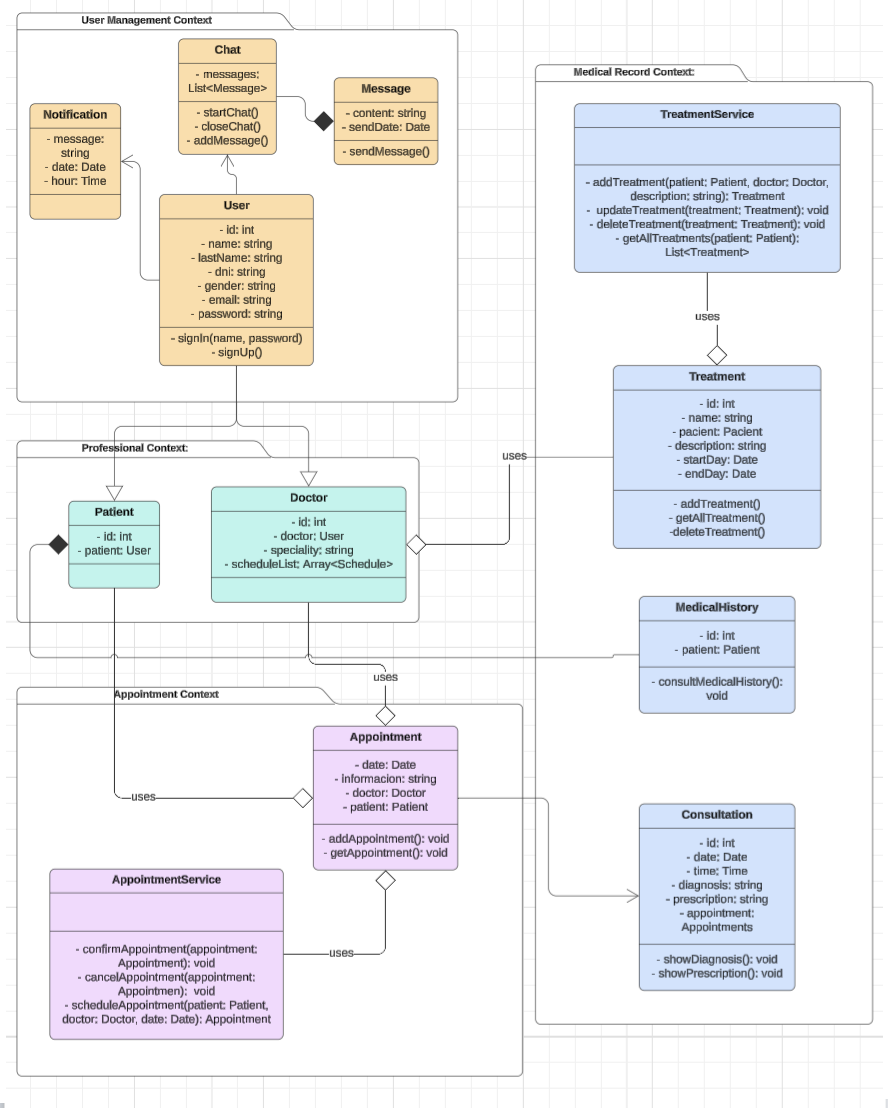
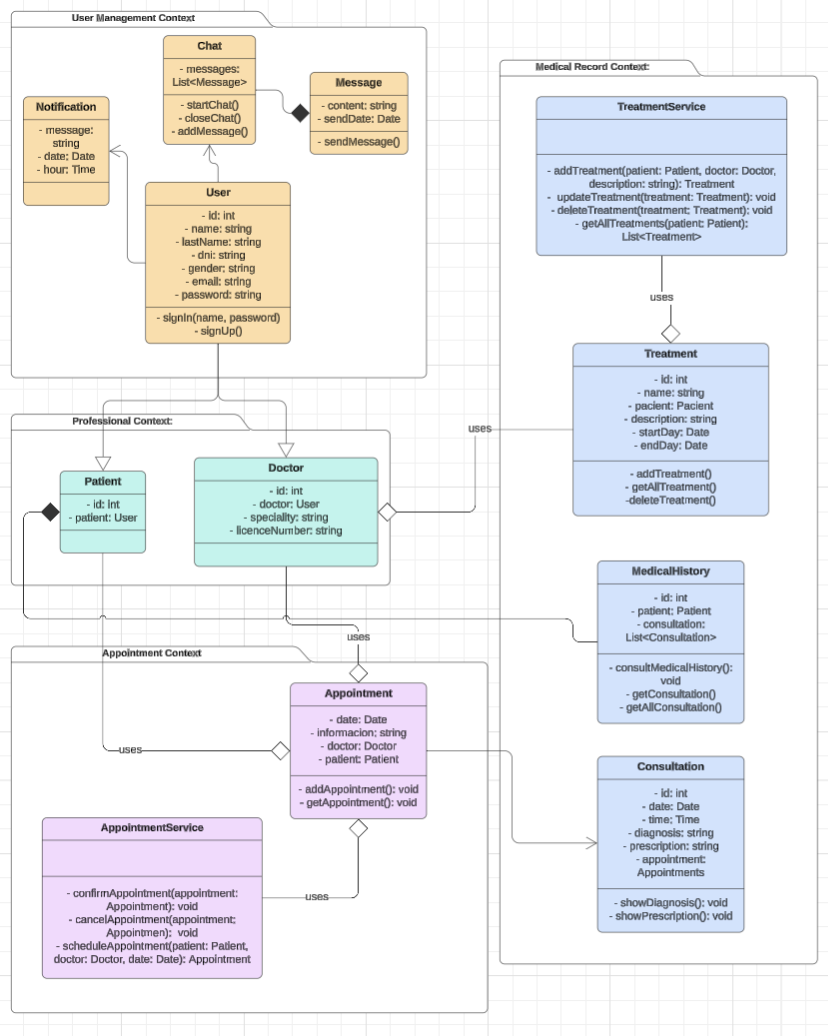
fix: update class dictionary

diff --git a/Informe.md b/Informe.md
@@ -1833,7 +1833,7 @@ Para desarrollar el diagrama de clases para nuestro proyecto, se usó la herrami
 
 ### 4.7.2. Class Dictionary
 
-Class User
+**Class User**
 
 <table border="1">
   <tr>
@@ -1857,59 +1857,28 @@ Class User
     <td>Last name of the client</td>
   </tr>
   <tr>
+    <td>dni</td>
+    <td>string</td>
+    <td>National identification number</td>
+  </tr>
+  <tr>
     <td>gender</td>
     <td>char</td>
     <td>Gender of de client</td>
   </tr>
-</table>
-
-Class Credential
-
-<table border="1">
   <tr>
-    <th>Attribute</th>
-    <th>Type</th>
-    <th>Description</th>
-  </tr>
-  <tr>
-    <td>id</td>
-    <td>int</td>
-    <td>Unique code for client</td>
-  </tr>
-  <tr>
-    <td>username</td>
+    <td>email</td>
     <td>string</td>
-    <td>Username of the client</td>
+    <td>Email address</td>
   </tr>
   <tr>
-    <td>password</td>
+    <td>gender</td>
     <td>string</td>
-    <td>Password of the client</td>
+    <td>Password for login</td>
   </tr>
 </table>
 
-Class Procedure
-
-<table border="1">
-  <tr>
-    <th>Attribute</th>
-    <th>Type</th>
-    <th>Description</th>
-  </tr>
-  <tr>
-    <td>id</td>
-    <td>int</td>
-    <td>Unique code for procedure</td>
-  </tr>
-  <tr>
-    <td>info</td>
-    <td>string</td>
-    <td>More information about the procedure</td>
-  </tr>
-  
-</table>
-
-Class Doctor
+**Class Doctor**
 
 <table border="1">
   <tr>
@@ -1923,13 +1892,23 @@ Class Doctor
     <td>Unique code for doctor</td>
   </tr>
   <tr>
-    <td>field</td>
+    <td>doctor</td>
+    <td>User</td>
+    <td>Associated user entity<td>
+  </tr>
+  <tr>
+    <td>speciality</td>
     <td>string</td>
-    <td>Field of the doctor<td>
+    <td>Medical specialty<td>
+  </tr>
+  <tr>
+    <td>licenceNumber</td>
+    <td>string</td>
+    <td>Doctor's license number<td>
   </tr>
 </table>
 
-Class MedicalHistory
+**Class Patient**
 
 <table border="1">
   <tr>
@@ -1940,16 +1919,16 @@ Class MedicalHistory
   <tr>
     <td>id</td>
     <td>int</td>
-    <td>Unique code for MedicalHistory</td>
+    <td>Unique code for patien</td>
   </tr>
   <tr>
-    <td>info</td>
-    <td>string</td>
-    <td>More information about the MedicalHistory</td>
+    <td>patiend</td>
+    <td>User</td>
+    <td>Associated user entity<td>
   </tr>
 </table>
 
-Class Appointment
+**Class Appointment**
 
 <table border="1">
   <tr>
@@ -1968,7 +1947,7 @@ Class Appointment
     <td>Specific date of the appointment</td>
   </tr>
   <tr>
-    <td>info</td>
+    <td>information</td>
     <td>string</td>
     <td>More info about the Appointment</td>
   </tr>
@@ -1979,7 +1958,7 @@ Class Appointment
   </tr>
 </table>
 
-Class Agenda
+**Class Treatment**
 
 <table border="1">
   <tr>
@@ -1990,16 +1969,101 @@ Class Agenda
   <tr>
     <td>id</td>
     <td>int</td>
-    <td>Unique code for Agenda</td>
+    <td>Unique code for Treatment</td>
   </tr>
   <tr>
-    <td>listOfAppointments</td>
-    <td>list&lt;Appointment&gt;</td>
-    <td>List of appointments</td>
+    <td>name</td>
+    <td>string</td>
+    <td>Name of the treatment</td>
+  </tr>
+  <tr>
+    <td>doctor</td>
+    <td>Doctor</td>
+    <td>Doctor who prescribed it</td>
+  </tr>
+  <tr>
+    <td>patient</td>
+    <td>Patient</td>
+    <td>Patient receiving the treatment</td>
+  </tr>
+  <tr>
+    <td>startDay</td>
+    <td>Date</td>
+    <td>Start date of the treatment</td>
+  </tr>
+  <tr>
+    <td>endDay</td>
+    <td>Date</td>
+    <td>End date of the treatment</td>
   </tr>
 </table>
 
-Class Notification
+**Class MedicalHistory**
+
+<table border="1">
+  <tr>
+    <th>Attribute</th>
+    <th>Type</th>
+    <th>Description</th>
+  </tr>
+  <tr>
+    <td>id</td>
+    <td>int</td>
+    <td>Unique code for MedicalHistory</td>
+  </tr>
+  <tr>
+    <td>patient</td>
+    <td>Patient</td>
+    <td>Patient associated with this history</td>
+  </tr>
+  <tr>
+    <td>consultation</td>
+    <td>List<Consultation></td>
+    <td>List of consultations</td>
+  </tr>
+</table>
+
+**Class Consultation**
+
+<table border="1">
+  <tr>
+    <th>Attribute</th>
+    <th>Type</th>
+    <th>Description</th>
+  </tr>
+  <tr>
+    <td>id</td>
+    <td>int</td>
+    <td>Unique code for MedicalHistory</td>
+  </tr>
+  <tr>
+    <td>date</td>
+    <td>Date</td>
+    <td>Date of consultation</td>
+  </tr>
+  <tr>
+    <td>time</td>
+    <td>Time<Consultation></td>
+    <td>Time of consultation</td>
+  </tr>
+  <tr>
+    <td>diagnosis</td>
+    <td>string<Consultation></td>
+    <td>Medical diagnosis</td>
+  </tr>
+  <tr>
+    <td>prescription</td>
+    <td>string<Consultation></td>
+    <td>Medical prescription</td>
+  </tr>
+  <tr>
+    <td>appointment</td>
+    <td>Appointment<Consultation></td>
+    <td>Linked appointment</td>
+  </tr>
+</table>
+
+**Class Notification**
 
 <table border="1">
   <tr>
@@ -2015,76 +2079,21 @@ Class Notification
   <tr>
     <td>message</td>
     <td>string</td>
-    <td>Message appearing on the notification</td>
+    <td>Notification message</td>
   </tr>
   <tr>
     <td>date</td>
     <td>date</td>
     <td>Date of the notification</td>
   </tr>
-</table>
-
-Class MedicalResult
-
-<table border="1">
   <tr>
-    <th>Attribute</th>
-    <th>Type</th>
-    <th>Description</th>
-  </tr>
-  <tr>
-    <td>id</td>
-    <td>int</td>
-    <td>Unique code for MedicalResult</td>
-  </tr>
-  <tr>
-    <td>info</td>
-    <td>string</td>
-    <td>More info about the MedicalResult</td>
+    <td>hour</td>
+    <td>Time</td>
+    <td>Time of the notification</td>
   </tr>
 </table>
 
-Class MedicalSample
-
-<table border="1">
-  <tr>
-    <th>Attribute</th>
-    <th>Type</th>
-    <th>Description</th>
-  </tr>
-  <tr>
-    <td>id</td>
-    <td>int</td>
-    <td>Unique code for MedicalSample</td>
-  </tr>
-  <tr>
-    <td>info</td>
-    <td>string</td>
-    <td>More info about the MedicalSample</td>
-  </tr>
-</table>
-
-Class MedicalAnalisis
-
-<table border="1">
-  <tr>
-    <th>Attribute</th>
-    <th>Type</th>
-    <th>Description</th>
-  </tr>
-  <tr>
-    <td>id</td>
-    <td>int</td>
-    <td>Unique code for MedicalAnalisis</td>
-  </tr>
-  <tr>
-    <td>info</td>
-    <td>string</td>
-    <td>More info about the MedicalAnalisis</td>
-  </tr>
-</table>
-
-Class Message
+**Class Message**
 
 <table border="1">
   <tr>
@@ -2098,13 +2107,18 @@ Class Message
     <td>Unique code for Message</td>
   </tr>
   <tr>
-    <td>info</td>
+    <td>content</td>
     <td>string</td>
-    <td>More info about the Message</td>
+    <td>Content of the message</td>
   </tr>
+  <tr>
+    <td>sendDate</td>
+    <td>Date</td>
+    <td>Date message was sent</td>
+  <tr>
 </table>
 
-Class Progress
+**Class Chat**
 
 <table border="1">
   <tr>
@@ -2115,32 +2129,12 @@ Class Progress
   <tr>
     <td>id</td>
     <td>int</td>
-    <td>Unique code for Progress</td>
+    <td>Unique code for Message</td>
   </tr>
   <tr>
-    <td>info</td>
-    <td>string</td>
-    <td>More info about the Progress</td>
-  </tr>
-</table>
-
-Class Treatment
-
-<table border="1">
-  <tr>
-    <th>Attribute</th>
-    <th>Type</th>
-    <th>Description</th>
-  </tr>
-  <tr>
-    <td>id</td>
-    <td>int</td>
-    <td>Unique code for Treatment</td>
-  </tr>
-  <tr>
-    <td>info</td>
-    <td>string</td>
-    <td>More info about the Treatment</td>
+    <td>messages</td>
+    <td>List<Message></td>
+    <td>List of messages in the chat</td>
   </tr>
 </table>
 
